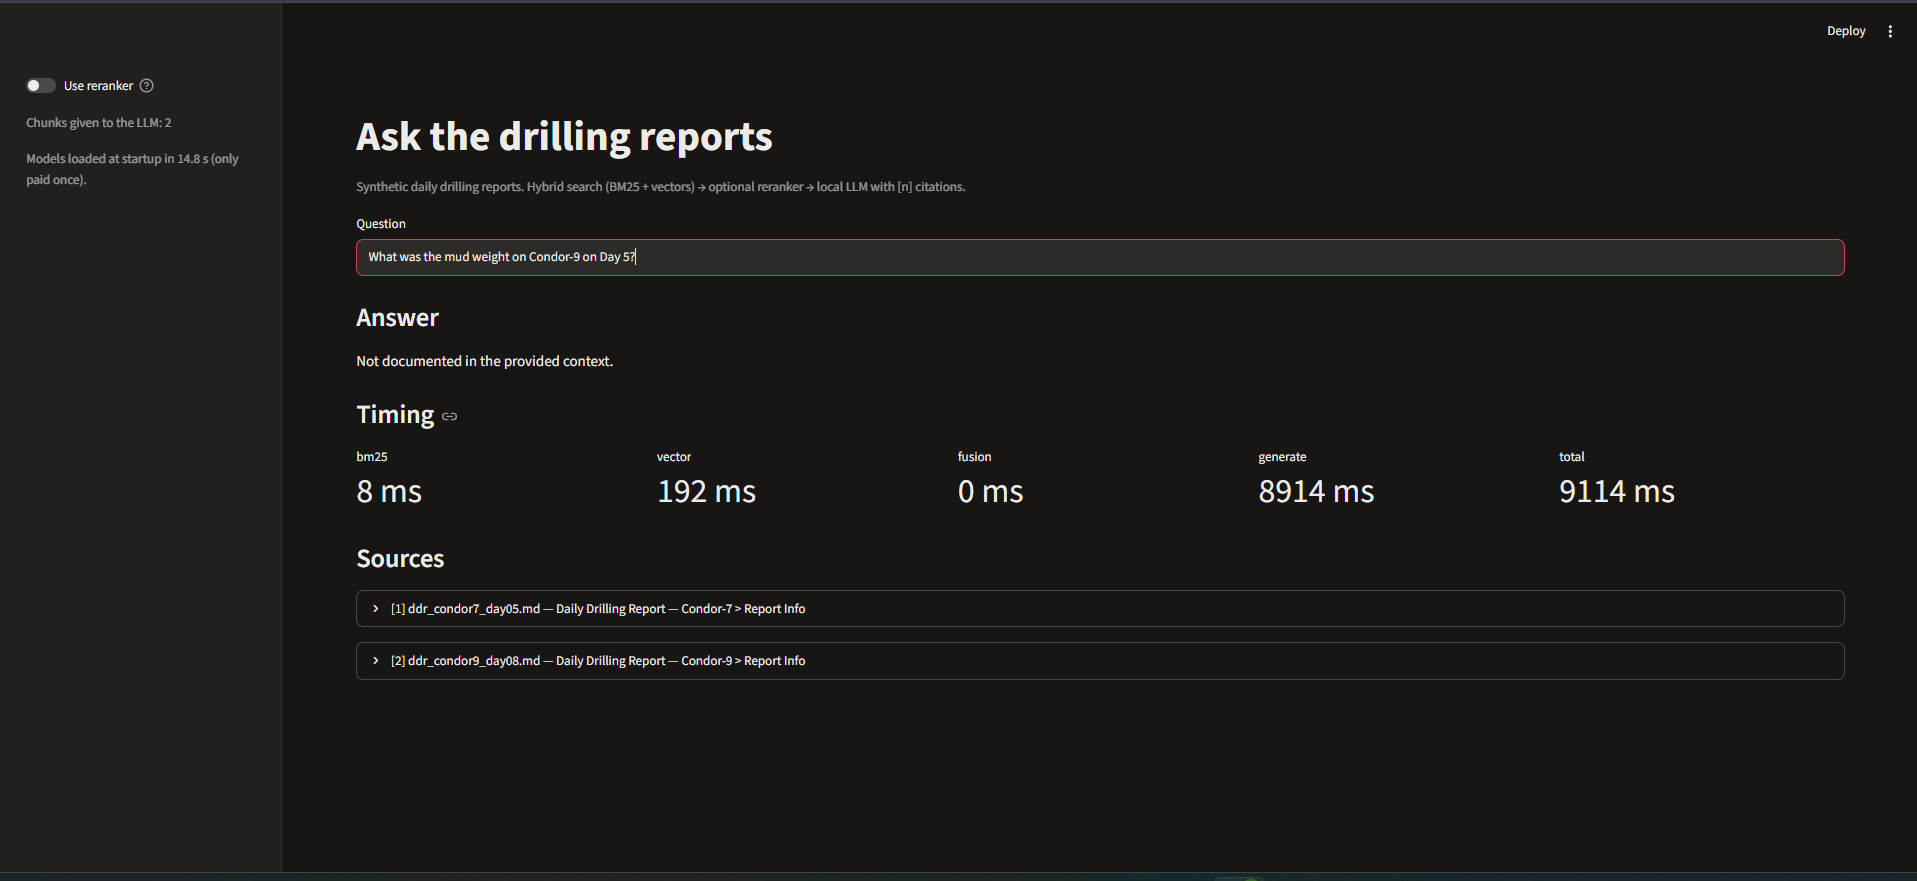
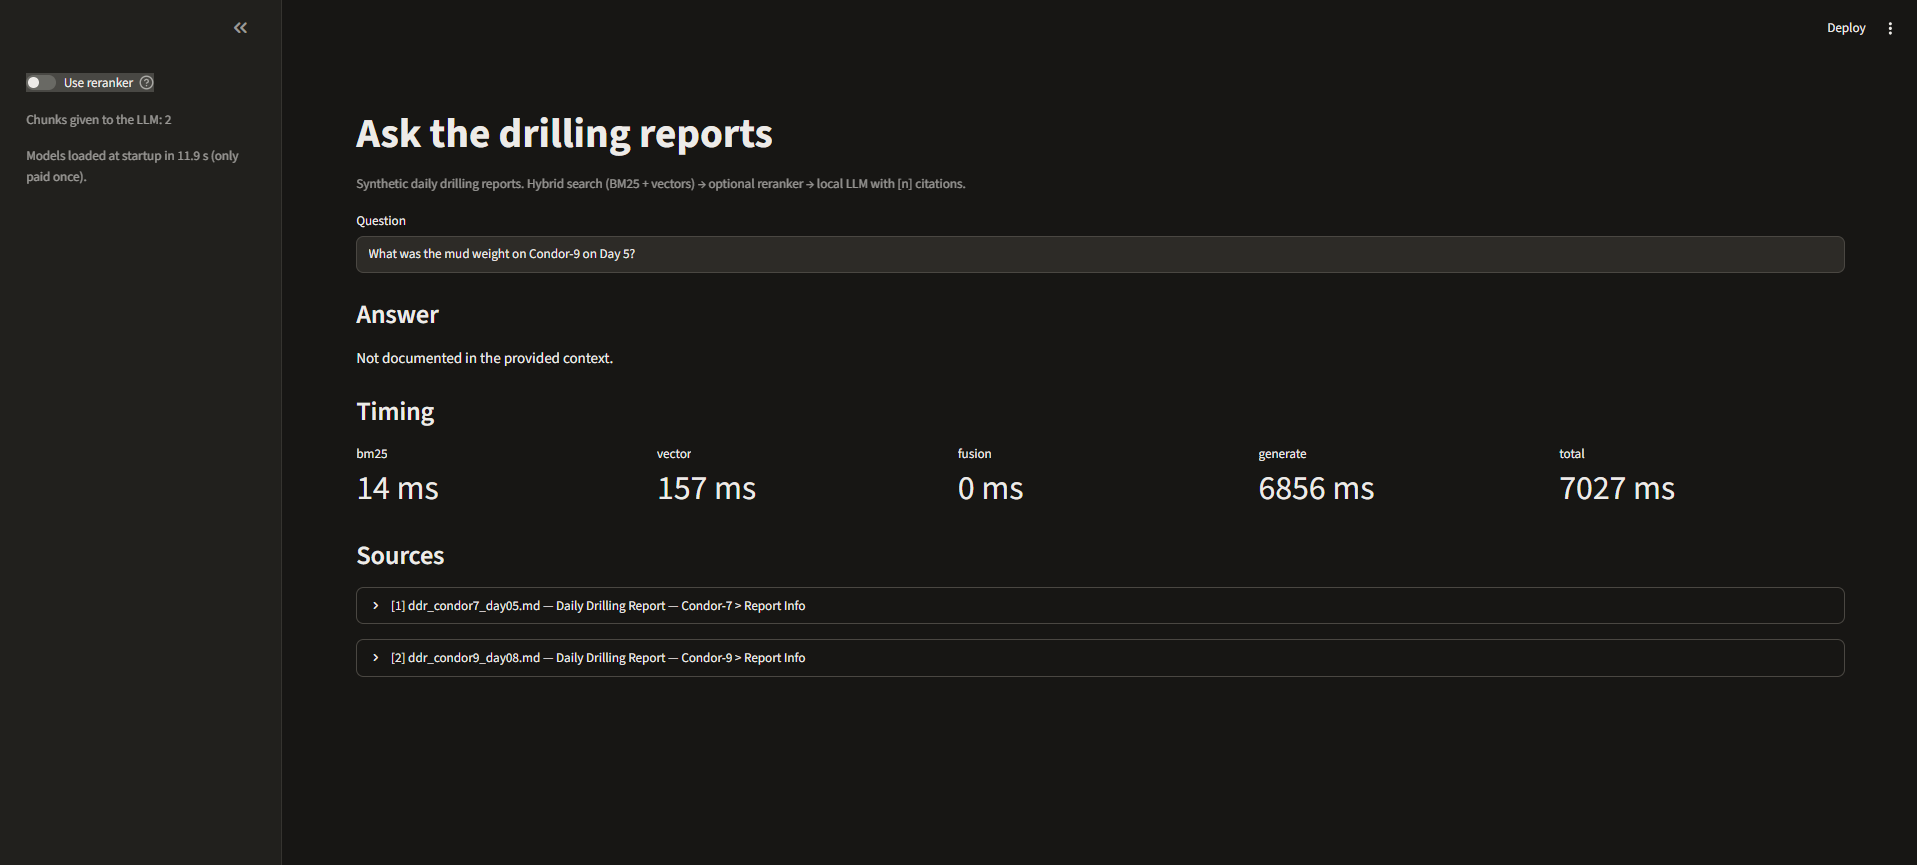
README: add Key results and new demo screenshots, put the demo and results first

diff --git a/README.md b/README.md
@@ -6,6 +6,43 @@ It answers questions from a small set of drilling-report style documents, cites 
 
 > **Status:** retrieval, reranking, cited generation and evaluation are working. Tracing, latency metrics and a code-level citation checker are working; CI regression gating is still to do (see [Roadmap](#roadmap)).
 
+> **Key results**
+> - **Hit@2 on 40 answerable questions: plain hybrid 0.68 -> BM25-weighted hybrid + reranker 1.00** (chunk headers are on in both): BM25 weighting lifts it to 0.80, and adding the reranker takes it to 1.00.
+> - **RAGAS faithfulness** (30 questions, judge gpt-oss-20b): 0.84 without and 0.88 with the reranker. No measurable difference; the judge is noisy.
+> - **The eval caught a hidden bug:** prompts were being silently cut off. It is [now fixed and guarded](#the-eval-caught-a-hidden-bug-prompts-were-being-cut-off).
+> - **Runs locally on a 4 GB GPU** (only the eval judge is hosted), in plain Python: no LangChain or LlamaIndex in the core pipeline.
+> - Read the [Known limitations](#known-limitations-and-findings) before quoting any number.
+
+---
+
+## Demo app
+
+```bash
+streamlit run app.py          # needs Ollama running locally
+```
+
+Type a question to see the answer, the cited chunks in expandable boxes (cited ones open by default), and per-stage timing. The sidebar toggle turns the reranker off, so you can see it matter live: for "What was the mud weight on Condor-9 on Day 5?" the reranker on finds the right report; off, hybrid search alone returns the look-alike Condor-7 report and the model answers "Not documented".
+
+The embedder and reranker are loaded once and kept in RAM; they move to the GPU only while retrieving, then step aside so the LLM fits in 4 GB (measured: both on the GPU use 1.4 GB, which leaves too little for Ollama).
+
+![Reranker on](docs/images/reranker-on.png)
+*Reranker on: both retrieved chunks come from the right report (Condor-9, Day 5) and the answer cites [1]. Reranking took about 0.5 s in this single run.*
+
+![Reranker off](docs/images/reranker-off.png)
+*Reranker off, same question: hybrid search alone returns a look-alike report (Condor-7, Day 5) and a different day of Condor-9, so the model correctly says "Not documented in the provided context." Single runs; see the Latency table for typical timings.*
+
+### Docker
+
+Ollama runs on the **host**, not in the container. The image holds the app, the models and the index (CPU-only PyTorch, so the embedder and reranker run on the CPU inside the container; the LLM still uses your GPU through the host's Ollama).
+
+```bash
+docker build -t rag-portfolio .
+docker run --rm -p 8501:8501 --add-host=host.docker.internal:host-gateway rag-portfolio
+# then open http://localhost:8501
+```
+
+On the host, Ollama must accept connections from the container: start it with `OLLAMA_HOST=0.0.0.0 ollama serve` (by default it only listens on localhost). `OLLAMA_HOST` inside the container defaults to `http://host.docker.internal:11434`. `.env` is excluded from the image.
+
 ---
 
 ## How it works
@@ -32,6 +69,25 @@ Question -> Hybrid retrieval (BM25 + vectors, fused with RRF)
 | Evaluation | `eval/` | Scores retrieval against gold evidence and answers with RAGAS (see below). |
 
 **Why plain Python?** No LangChain or LlamaIndex for the core pipeline. Every step is written out so it can be read and explained line by line.
+
+---
+
+## Results
+
+**RAGAS faithfulness.** Judge: `openai/gpt-oss-20b` on Groq. Same 30 questions for both setups (seed 42), k=2.
+
+| Setup | Faithfulness (30 questions) | Hit@2 | Recall@2 | MRR |
+|---|---|---|---|---|
+| BM25-weighted hybrid | 0.84 | 0.80 | 0.70 | 0.79 |
+| BM25-weighted hybrid + reranker | 0.88 | 1.00 | 0.96 | 0.96 |
+
+Hit@2, Recall@2 and MRR are computed against gold evidence on all 40 answerable questions, with no LLM.
+
+- **Faithfulness shows no measurable difference** between the two setups: 0.84 vs 0.88 is about one question and within the judge's noise. **The retrieval metrics show the reranker's advantage.**
+- **Answer relevancy was not run** (it can score 0 on a correct "Not documented" answer).
+- **Context precision and context recall are not LLM-scored**, because retrieval is measured against gold evidence.
+
+Sources: `eval/ragas_scores.json`, `eval/results.csv`, `eval/ablation_results.csv`. See [Known limitations](#known-limitations-and-findings) before quoting the scores.
 
 ---
 
@@ -123,6 +179,50 @@ To save quota, RAGAS runs on 30 of the 45 questions: `--subset 30`, a random sam
 
 ---
 
+## What each retrieval change contributed
+
+The 2x2 below isolates the two changes (context headers on chunks, BM25-weighted RRF) on the 40 answerable questions (`python -m eval.ablate_headers`). "Keyword Hit@3" covers all 10 keyword questions.
+
+Without the reranker:
+
+| Variant | Hit@2 | Hit@3 | Recall@3 | MRR | Keyword Hit@3 |
+|---|---|---|---|---|---|
+| neither | 0.65 | 0.70 | 0.59 | 0.65 | 0.30 |
+| weighting only | 0.75 | 0.82 | 0.71 | 0.73 | 0.80 |
+| headers only | 0.68 | 0.82 | 0.71 | 0.71 | 0.60 |
+| **both** | **0.80** | **0.90** | **0.79** | **0.79** | **0.90** |
+
+With the reranker:
+
+| Variant | Hit@2 | Hit@3 | Recall@3 | MRR | Keyword Hit@3 |
+|---|---|---|---|---|---|
+| neither | 0.88 | 0.88 | 0.80 | 0.84 | 0.70 |
+| weighting only | 0.95 | 0.95 | 0.88 | 0.91 | 1.00 |
+| headers only | 0.95 | 0.95 | 0.94 | 0.93 | 0.80 |
+| **both** | **1.00** | **1.00** | **0.99** | **0.96** | **1.00** |
+
+Reading it: each change helps on its own, the gains roughly add up, and the reranker adds a large gain on top of either. Headers help most when the answer sits in the second chunk of a long report (Recall@3 0.80 -> 0.94 with the reranker); weighting helps most on exact-ID questions.
+
+**Hard questions** (9 questions that need two wells or two days; Recall counts both pieces of evidence): plain hybrid reaches Recall@2 0.50 and Recall@3 0.61; hybrid + reranker reaches 0.83 and 0.94. At k=2 the reranker still misses some second pieces of evidence, so k=3 is safer for multi-hop questions.
+
+---
+
+## Latency
+
+Cold and warm are measured separately (`python scripts/measure_latency.py`, p50 / p95 in ms). Measured on this laptop (4 GB GPU) on 25 Nov 2026. Earlier measurements were slower. A single p95 over all queries would be dominated by model loading, so it would mislead.
+
+| Stage | Cold: CLI, models reloaded every question (n=3) | Warm: app, models loaded once (n=10) |
+|---|---|---|
+| BM25 | 6 / 16 | 4 / 25 |
+| Vector search | 2,742 / 4,376 | 32 / 76 |
+| Rerank | 6,953 / 8,759 | 352 / 360 |
+| Generate (LLM) | 5,935 / 6,244 | 4,665 / 6,503 |
+| **Whole question** | **17,123 / 18,130** | **6,327 / 8,409** |
+
+Loading the embedding model and reranker (paid once) took 7.0 s in the latency script and 11.9 s in the app (it varies). Warm retrieval is under 1 s. Generation is the largest warm stage; it includes loading the LLM, because Ollama unloads it after each answer so the next retrieval fits on the GPU. The whole-question time also includes time outside the listed stages. Small samples: treat these as orders of magnitude.
+
+---
+
 ## Known limitations and findings
 
 These are written down on purpose. A project that hides its problems cannot be trusted.
@@ -176,96 +276,6 @@ We looked into low faithfulness scores and found that the model had not read all
 - **Groq free tier is a hard cap.** The judge model allows 200,000 tokens per day, so larger evaluations take several days. `eval/run_eval.py` resumes where it stopped.
 - **The eval set is small.** 45 questions (40 with gold chunks): one question moves a hit rate by 2.5 points, and results on subsets of 4-10 questions are only indicative.
 - **Synthetic data.** The reports are generated from templates, so wording is far more regular than real field reports.
-
----
-
-## What each retrieval change contributed
-
-The 2x2 below isolates the two changes (context headers on chunks, BM25-weighted RRF) on the 40 answerable questions (`python -m eval.ablate_headers`). "Keyword Hit@3" covers all 10 keyword questions.
-
-Without the reranker:
-
-| Variant | Hit@2 | Hit@3 | Recall@3 | MRR | Keyword Hit@3 |
-|---|---|---|---|---|---|
-| neither | 0.65 | 0.70 | 0.59 | 0.65 | 0.30 |
-| weighting only | 0.75 | 0.82 | 0.71 | 0.73 | 0.80 |
-| headers only | 0.68 | 0.82 | 0.71 | 0.71 | 0.60 |
-| **both** | **0.80** | **0.90** | **0.79** | **0.79** | **0.90** |
-
-With the reranker:
-
-| Variant | Hit@2 | Hit@3 | Recall@3 | MRR | Keyword Hit@3 |
-|---|---|---|---|---|---|
-| neither | 0.88 | 0.88 | 0.80 | 0.84 | 0.70 |
-| weighting only | 0.95 | 0.95 | 0.88 | 0.91 | 1.00 |
-| headers only | 0.95 | 0.95 | 0.94 | 0.93 | 0.80 |
-| **both** | **1.00** | **1.00** | **0.99** | **0.96** | **1.00** |
-
-Reading it: each change helps on its own, the gains roughly add up, and the reranker adds a large gain on top of either. Headers help most when the answer sits in the second chunk of a long report (Recall@3 0.80 -> 0.94 with the reranker); weighting helps most on exact-ID questions.
-
-**Hard questions** (9 questions that need two wells or two days; Recall counts both pieces of evidence): plain hybrid reaches Recall@2 0.50 and Recall@3 0.61; hybrid + reranker reaches 0.83 and 0.94. At k=2 the reranker still misses some second pieces of evidence, so k=3 is safer for multi-hop questions.
-
----
-
-## Latency
-
-Cold and warm are measured separately (`python scripts/measure_latency.py`, p50 / p95 in ms). Measured on this laptop (4 GB GPU) on 25 Nov 2026. Earlier measurements were slower. A single p95 over all queries would be dominated by model loading, so it would mislead.
-
-| Stage | Cold: CLI, models reloaded every question (n=3) | Warm: app, models loaded once (n=10) |
-|---|---|---|
-| BM25 | 6 / 16 | 4 / 25 |
-| Vector search | 2,742 / 4,376 | 32 / 76 |
-| Rerank | 6,953 / 8,759 | 352 / 360 |
-| Generate (LLM) | 5,935 / 6,244 | 4,665 / 6,503 |
-| **Whole question** | **17,123 / 18,130** | **6,327 / 8,409** |
-
-At app start, loading the embedding model and reranker took 7.0 s (paid once). Warm retrieval is under 1 s. Generation is the largest warm stage; it includes loading the LLM, because Ollama unloads it after each answer so the next retrieval fits on the GPU. The whole-question time also includes time outside the listed stages. Small samples: treat these as orders of magnitude.
-
----
-
-## Demo app
-
-```bash
-streamlit run app.py          # needs Ollama running locally
-```
-
-Type a question to see the answer, the cited chunks in expandable boxes (cited ones open by default), and per-stage timing. The sidebar toggle turns the reranker off, so you can see it matter live: for "What was the mud weight on Condor-9 on Day 5?" the reranker on finds the right report; off, hybrid search alone returns the look-alike Condor-7 report and the model answers "Not documented".
-
-The embedder and reranker are loaded once and kept in RAM; they move to the GPU only while retrieving, then step aside so the LLM fits in 4 GB (measured: both on the GPU use 1.4 GB, which leaves too little for Ollama).
-
-<!-- SCREENSHOT PLACEHOLDER: add docs/app.png and replace this line with ![Streamlit app](docs/app.png) -->
-*(Screenshot to be added.)*
-
-### Docker
-
-Ollama runs on the **host**, not in the container. The image holds the app, the models and the index (CPU-only PyTorch, so the embedder and reranker run on the CPU inside the container; the LLM still uses your GPU through the host's Ollama).
-
-```bash
-docker build -t rag-portfolio .
-docker run --rm -p 8501:8501 --add-host=host.docker.internal:host-gateway rag-portfolio
-# then open http://localhost:8501
-```
-
-On the host, Ollama must accept connections from the container: start it with `OLLAMA_HOST=0.0.0.0 ollama serve` (by default it only listens on localhost). `OLLAMA_HOST` inside the container defaults to `http://host.docker.internal:11434`. `.env` is excluded from the image.
-
----
-
-## Results
-
-**RAGAS faithfulness.** Judge: `openai/gpt-oss-20b` on Groq. Same 30 questions for both setups (seed 42), k=2.
-
-| Setup | Faithfulness (30 questions) | Hit@2 | Recall@2 | MRR |
-|---|---|---|---|---|
-| BM25-weighted hybrid | 0.84 | 0.80 | 0.70 | 0.79 |
-| BM25-weighted hybrid + reranker | 0.88 | 1.00 | 0.96 | 0.96 |
-
-Hit@2, Recall@2 and MRR are computed against gold evidence on all 40 answerable questions, with no LLM.
-
-- **Faithfulness shows no measurable difference** between the two setups: 0.84 vs 0.88 is about one question and within the judge's noise. **The retrieval metrics show the reranker's advantage.**
-- **Answer relevancy was not run** (it can score 0 on a correct "Not documented" answer).
-- **Context precision and context recall are not LLM-scored**, because retrieval is measured against gold evidence.
-
-Sources: `eval/ragas_scores.json`, `eval/results.csv`, `eval/ablation_results.csv`. See [Known limitations](#known-limitations-and-findings) before quoting the scores.
 
 ---
 
